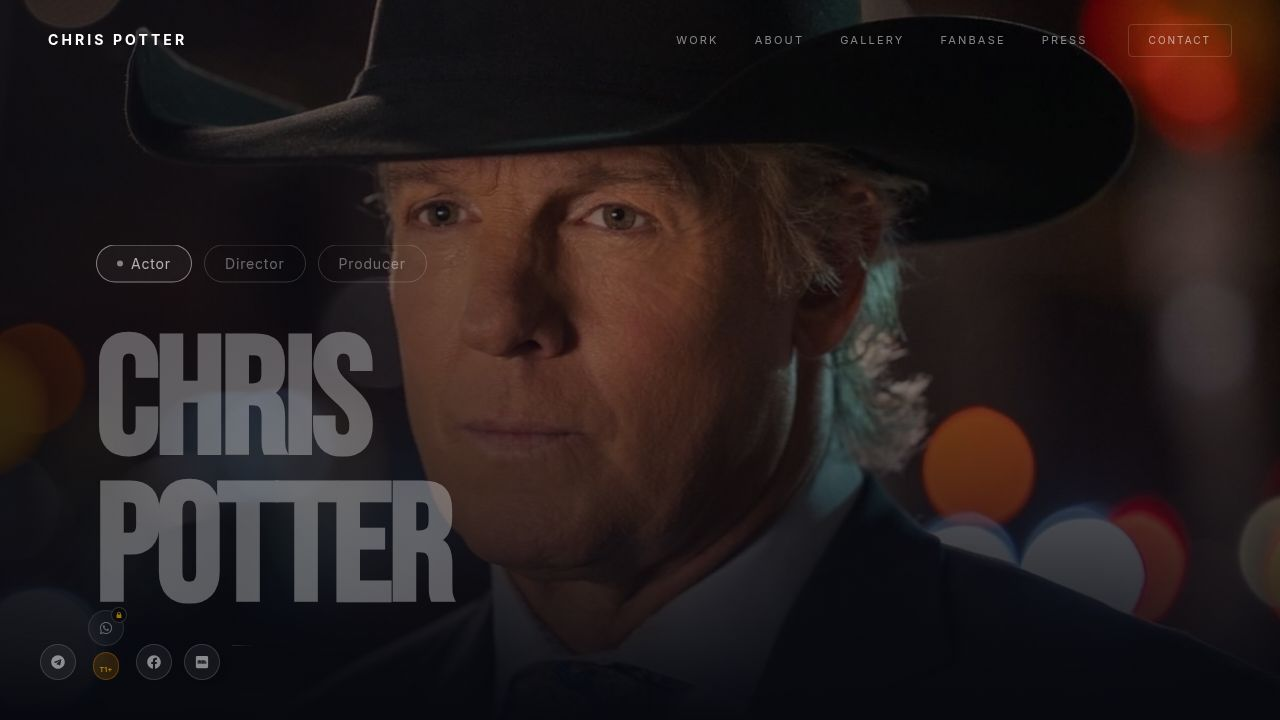
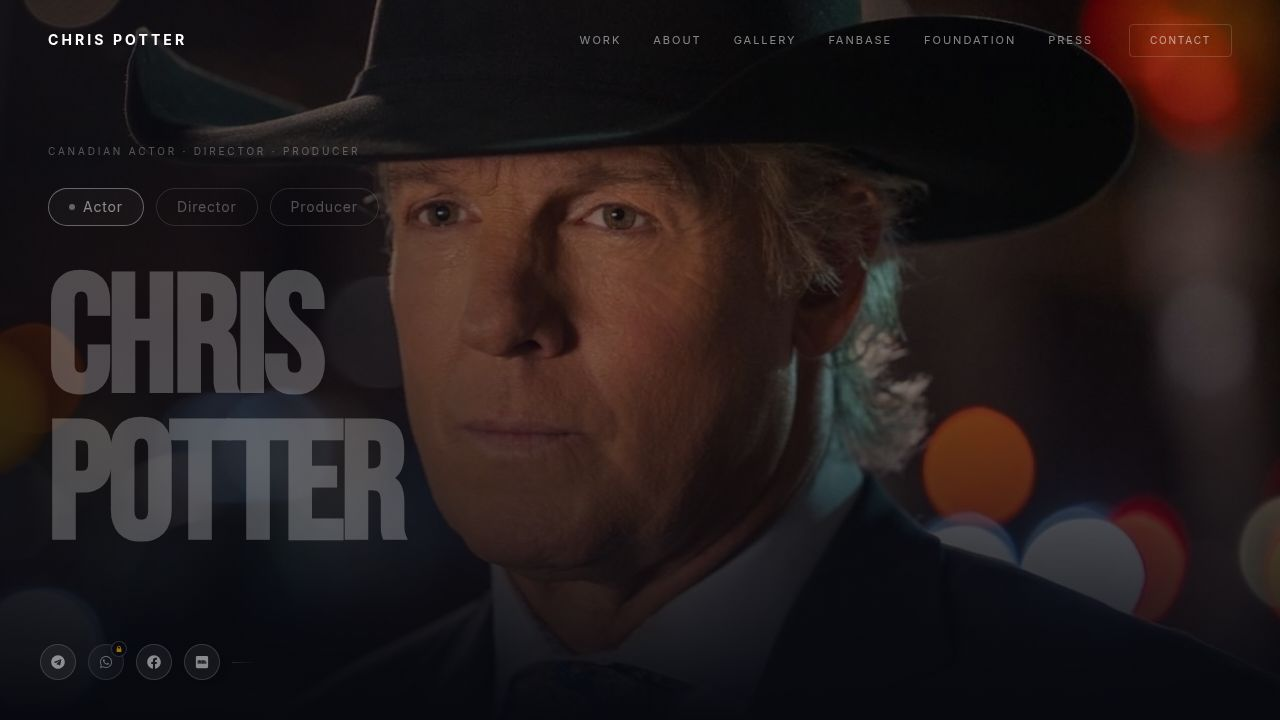
Update website to remove Replit branding and align page layouts
Removes all Replit dependencies and plugins, adjusts hero section styling for consistent alignment across pages, and removes payment methods from the homepage.

Replit-Commit-Author: Agent
Replit-Commit-Session-Id: f4ca1701-b81f-4c11-a93a-ff0678597b12
Replit-Commit-Checkpoint-Type: full_checkpoint
Replit-Commit-Event-Id: f7bfb770-7836-4802-9516-4500538a372c
Replit-Commit-Screenshot-Url: https://storage.googleapis.com/screenshot-production-us-central1/5be274c7-a139-439c-b476-d8ccc5cdf4b2/f4ca1701-b81f-4c11-a93a-ff0678597b12/9urJG1b
Replit-Helium-Checkpoint-Created: true

diff --git a/artifacts/chris-potter/src/pages/Home.tsx b/artifacts/chris-potter/src/pages/Home.tsx
@@ -413,78 +413,49 @@ function FundraisingSection() {
   return (
     <section id="give-back" className="py-24 md:py-36">
       <div className="max-w-[1400px] mx-auto px-6 md:px-12">
-        <div className="grid md:grid-cols-2 gap-16 md:gap-24 items-start">
-
-          {/* Left — cause description */}
-          <div>
-            <Reveal>
-              <p className="text-[10px] tracking-[0.24em] uppercase text-white/30 mb-4">Community Initiative</p>
-              <h2 className="text-[clamp(2.8rem,6vw,5.5rem)] font-black uppercase leading-[0.9] text-white mb-8" style={{ fontFamily: "'Bebas Neue', sans-serif" }}>
-                The Heartland<br />Legacy Fund
-              </h2>
-            </Reveal>
-            <Reveal delay={80}>
-              <p className="text-base md:text-lg text-white/60 font-light leading-relaxed mb-5">
-                Chris Potter has championed the Heartland Legacy Fund for over a decade — a community initiative providing horse rescue programs and free equestrian training for underprivileged youth across Western Canada.
-              </p>
-              <p className="text-sm text-white/38 font-light leading-relaxed mb-10">
-                Rooted in the same values that define the Heartland story — compassion, resilience, and the profound bond between humans and animals — the Fund ensures the next generation of young riders can experience the transformative power of horsemanship, regardless of their background.
-              </p>
-              <div className="grid grid-cols-3 gap-6 mb-10">
-                {[
-                  { num: "400+", label: "Horses Rescued" },
-                  { num: "1,200+", label: "Youth Enrolled" },
-                  { num: "12", label: "Programs Funded" },
-                ].map((s, i) => (
-                  <div key={i}>
-                    <p className="text-[clamp(2rem,4vw,3rem)] font-black text-white leading-none mb-1.5" style={{ fontFamily: "'Bebas Neue', sans-serif" }}>{s.num}</p>
-                    <p className="text-[9px] tracking-[0.18em] uppercase text-white/28">{s.label}</p>
-                  </div>
-                ))}
-              </div>
-              <div>
-                <div className="flex justify-between items-center mb-2.5">
-                  <span className="text-[9px] tracking-widest uppercase text-white/28">2025 Annual Goal</span>
-                  <span className="text-xs text-white/40 tabular-nums">$68,420 · $100,000</span>
+        <div className="max-w-[700px]">
+          <Reveal>
+            <p className="text-[10px] tracking-[0.24em] uppercase text-white/30 mb-4">Community Initiative</p>
+            <h2 className="text-[clamp(2.8rem,6vw,5.5rem)] font-black uppercase leading-[0.9] text-white mb-8" style={{ fontFamily: "'Bebas Neue', sans-serif" }}>
+              The Heartland<br />Legacy Fund
+            </h2>
+          </Reveal>
+          <Reveal delay={80}>
+            <p className="text-base md:text-lg text-white/60 font-light leading-relaxed mb-5">
+              Chris Potter has championed the Heartland Legacy Fund for over a decade — a community initiative providing horse rescue programs and free equestrian training for underprivileged youth across Western Canada.
+            </p>
+            <p className="text-sm text-white/38 font-light leading-relaxed mb-10">
+              Rooted in the same values that define the Heartland story — compassion, resilience, and the profound bond between humans and animals — the Fund ensures the next generation of young riders can experience the transformative power of horsemanship, regardless of their background.
+            </p>
+            <div className="grid grid-cols-3 gap-6 mb-10">
+              {[
+                { num: "400+", label: "Horses Rescued" },
+                { num: "1,200+", label: "Youth Enrolled" },
+                { num: "12", label: "Programs Funded" },
+              ].map((s, i) => (
+                <div key={i}>
+                  <p className="text-[clamp(2rem,4vw,3rem)] font-black text-white leading-none mb-1.5" style={{ fontFamily: "'Bebas Neue', sans-serif" }}>{s.num}</p>
+                  <p className="text-[9px] tracking-[0.18em] uppercase text-white/28">{s.label}</p>
                 </div>
-                <div className="h-1 bg-white/8 rounded-full overflow-hidden mb-2">
-                  <motion.div className="h-full bg-gradient-to-r from-white/50 to-white/18 rounded-full"
-                    initial={{ width: 0 }} whileInView={{ width: "68.4%" }} viewport={{ once: true }}
-                    transition={{ duration: 1.4, delay: 0.2, ease: [0.16,1,0.3,1] }} />
-                </div>
-                <p className="text-[9px] text-white/20">68% funded · Updated May 2025</p>
+              ))}
+            </div>
+            <div className="mb-10">
+              <div className="flex justify-between items-center mb-2.5">
+                <span className="text-[9px] tracking-widest uppercase text-white/28">2025 Annual Goal</span>
+                <span className="text-xs text-white/40 tabular-nums">$68,420 · $100,000</span>
               </div>
-            </Reveal>
-          </div>
-
-          {/* Right — giving summary + CTA */}
-          <div>
-            <Reveal delay={120}>
-              <p className="text-[10px] tracking-[0.24em] uppercase text-white/28 mb-5">Ways to Give</p>
-              <div className="space-y-2 mb-8">
-                {[
-                  { symbol: "◈", label: "Credit & Debit Card", sub: "Visa · Mastercard · Amex · Secure Stripe Checkout", color: "text-indigo-400/55" },
-                  { symbol: "◎", label: "PayPal", sub: "Quick, secure, buyer-protected donations", color: "text-blue-400/55" },
-                  { symbol: "₿", label: "Bitcoin", sub: "BTC · Any amount · On-chain mainnet wallet", color: "text-amber-400/55" },
-                  { symbol: "₮", label: "USDT Tether", sub: "TRC-20 · TRON network · Stablecoin giving", color: "text-emerald-400/55" },
-                ].map((m, i) => (
-                  <div key={i} className="flex items-center gap-4 border border-white/5 rounded-xl px-5 py-4 bg-white/[0.012]">
-                    <span className={`text-xl w-6 text-center flex-shrink-0 font-black leading-none ${m.color}`}>{m.symbol}</span>
-                    <div>
-                      <p className="text-sm font-medium text-white/75">{m.label}</p>
-                      <p className="text-[10px] text-white/28 mt-0.5">{m.sub}</p>
-                    </div>
-                  </div>
-                ))}
+              <div className="h-1 bg-white/8 rounded-full overflow-hidden mb-2">
+                <motion.div className="h-full bg-gradient-to-r from-white/50 to-white/18 rounded-full"
+                  initial={{ width: 0 }} whileInView={{ width: "68.4%" }} viewport={{ once: true }}
+                  transition={{ duration: 1.4, delay: 0.2, ease: [0.16,1,0.3,1] }} />
               </div>
-              <button onClick={() => navigate("/charity")}
-                className="w-full py-4 bg-white text-[#07090F] text-[11px] tracking-[0.22em] uppercase font-bold rounded-xl hover:bg-white/88 transition-colors shadow-lg shadow-white/5">
-                Give to the Heartland Legacy Fund
-              </button>
-              <p className="text-[10px] text-white/18 text-center mt-3">Full foundation story · all giving methods · 2025 events</p>
-            </Reveal>
-          </div>
-
+              <p className="text-[9px] text-white/20">68% funded · Updated May 2025</p>
+            </div>
+            <button onClick={() => navigate("/charity")}
+              className="px-10 py-4 bg-white text-[#07090F] text-[11px] tracking-[0.22em] uppercase font-bold rounded-xl hover:bg-white/88 transition-colors shadow-lg shadow-white/5">
+              Support the Foundation
+            </button>
+          </Reveal>
         </div>
       </div>
     </section>

diff --git a/artifacts/chris-potter/src/pages/PressKit.tsx b/artifacts/chris-potter/src/pages/PressKit.tsx
@@ -2,7 +2,7 @@ import { useRef, useEffect, useState } from "react";
 import { motion } from "framer-motion";
 import NavBar from "@/components/shared/NavBar";
 import Footer from "@/components/shared/Footer";
-import HeroSocialBar from "@/components/shared/HeroSocialBar";
+import PageHero from "@/components/shared/PageHero";
 
 function Reveal({ children, className = "", delay = 0 }: { children: React.ReactNode; className?: string; delay?: number }) {
   const ref = useRef<HTMLDivElement>(null);
@@ -80,44 +80,13 @@ export default function PressKit() {
     <div className="min-h-screen bg-[#07090F] text-white overflow-x-hidden" id="press-kit-root">
       <NavBar alwaysDark />
 
-      {/* ── HERO ── */}
-      <section className="relative min-h-[70vh] flex flex-col justify-end pb-16 md:pb-20">
-        <div className="absolute inset-0 overflow-hidden">
-          <motion.img
-            src="/photos/IMG_0984.JPG"
-            alt="Chris Potter"
-            className="absolute inset-0 w-full h-full object-cover object-top"
-            initial={{ opacity: 0, scale: 1.04 }}
-            animate={{ opacity: 1, scale: 1 }}
-            transition={{ duration: 1.4, ease: [0.16, 1, 0.3, 1] }}
-          />
-          <div className="absolute inset-0 bg-gradient-to-t from-[#07090F] via-[#07090F]/50 to-[#07090F]/30" />
-          <div className="absolute inset-0 bg-gradient-to-r from-[#07090F]/70 via-transparent to-transparent" />
-        </div>
-        <HeroSocialBar />
-        <div className="relative max-w-[1400px] mx-auto px-6 md:px-12 w-full pt-32">
-          <motion.p
-            initial={{ opacity: 0, y: 16 }} animate={{ opacity: 1, y: 0 }} transition={{ delay: 0.4, duration: 0.6 }}
-            className="text-[10px] tracking-[0.24em] uppercase text-white/35 mb-5"
-          >
-            Media & Press
-          </motion.p>
-          <motion.h1
-            initial={{ opacity: 0, y: 28 }} animate={{ opacity: 1, y: 0 }} transition={{ delay: 0.55, duration: 0.9, ease: [0.16,1,0.3,1] }}
-            className="text-[clamp(4rem,11vw,9rem)] font-black uppercase leading-[0.88] text-white"
-            style={{ fontFamily: "'Bebas Neue', sans-serif" }}
-          >
-            Press<br />Kit
-          </motion.h1>
-          <motion.div
-            initial={{ opacity: 0 }} animate={{ opacity: 1 }} transition={{ delay: 0.9 }}
-            className="mt-6 flex items-center gap-4"
-          >
-            <div className="w-8 h-px bg-white/30" />
-            <p className="text-xs tracking-[0.22em] uppercase text-white/45">Official Assets · Bios · Photography</p>
-          </motion.div>
-        </div>
-      </section>
+      <PageHero
+        photo="/photos/IMG_0984.JPG"
+        photoPosition="center top"
+        label="Media & Press"
+        heading={"Press\nKit"}
+        subheading="Official Assets · Bios · Photography"
+      />
 
       {/* ── DOWNLOAD BAR ── */}
       <div className="border-y border-white/5 bg-[#05070D]">

diff --git a/artifacts/chris-potter/src/pages/Admin.tsx b/artifacts/chris-potter/src/pages/Admin.tsx
@@ -620,7 +620,7 @@ function Settings() {
       <h2 className="text-2xl font-black uppercase text-white mb-8" style={{ fontFamily: "'Bebas Neue', sans-serif" }}>Settings</h2>
       <div className="border border-white/6 rounded-xl p-7 mb-6">
         <p className="text-[9px] tracking-widest uppercase text-white/25 mb-5">Required Environment Variables</p>
-        <p className="text-xs text-white/35 mb-5">Configure these in your hosting environment (Vercel dashboard → Settings → Environment Variables) or your Replit Secrets panel.</p>
+        <p className="text-xs text-white/35 mb-5">Configure these in your hosting environment (Vercel dashboard → Settings → Environment Variables).</p>
         <div className="space-y-3">
           {vars.map((v, i) => (
             <div key={i} className="flex items-center justify-between py-2 border-b border-white/[0.04]">

diff --git a/artifacts/chris-potter/src/components/shared/PageHero.tsx b/artifacts/chris-potter/src/components/shared/PageHero.tsx
@@ -56,7 +56,9 @@ export default function PageHero({
           style={{ fontFamily: "'Bebas Neue', sans-serif" }}
           data-testid="page-hero-heading"
         >
-          {heading}
+          {heading.split("\n").map((line, i, arr) => (
+            <span key={i}>{line}{i < arr.length - 1 && <br />}</span>
+          ))}
         </motion.h1>
         {subheading && (
           <motion.div
